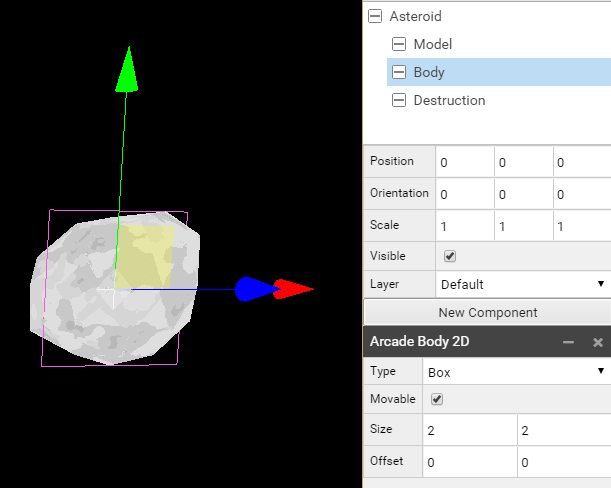
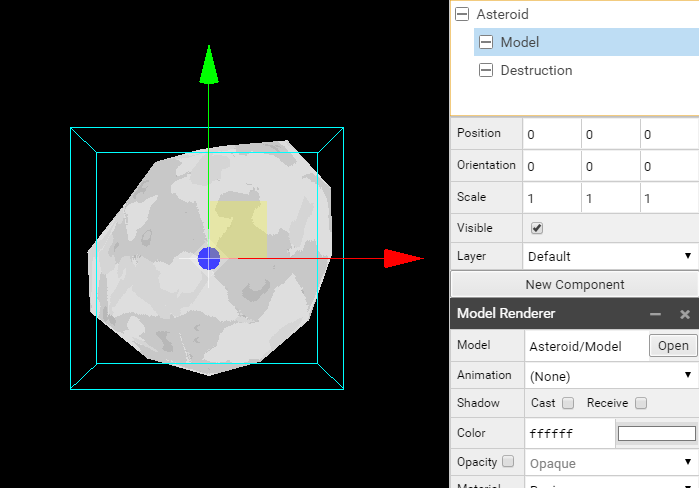
rm body and fix amplitude

diff --git a/en/ch4.md b/en/ch4.md
@@ -170,11 +170,6 @@ We do the same for Ship2 of Ship/1/Prefab, with a component Model Renderer and t
 
 We both change the Orientation to (90, 0, 0) to see the top of the ship in 2D mode.
 
-##### Body
-
-We need to give an Arcade Body 2D compenent to our ships for the collision system, we attach it to an actor Body, child of the Ship actor.
-We set the size to 4 x 4.
-
 ##### Destruction
 
 We create for both ship an actor Destruction, which contain the component Sprite renderer with the Sprite Explosion related to each ship.
@@ -191,7 +186,6 @@ Here the complete structure of the prefabs :
 Ship/0/Prefab
 * Ship1, Position(0, 0, 0), Orientation(0, 0, **90**), Behavior, Class ShipBehavior
    * Model, Orientation(0, **90**, **90**), Model Renderer, Model *Ship/0/Model*
-   * Body, Arcade Body 2D, Type Box, Size (**4, 4**)
    * Destruction, Sprite Renderer, Sprite *Ship/0/Explosion/Sprite*
    * Boost, Orientation (0, 0, **-90**), Visible off
       * 0, Position (2.1, -2.76, 0), Sprite Renderer, Sprite *Ship/Boost/Sprite*
@@ -202,7 +196,6 @@ Ship/0/Prefab
 Ship/1/Prefab
 * Ship2, Position(0, 0, 0), Orientation(0, 0, **-90**), Behavior, Class ShipBehavior
    * Model, Orientation(0, **90**, **90**), Model Renderer, Model *Ship/1/Model*
-   * Body, Arcade Body 2D, Type Box, Size (**4, 4**)
    * Destruction, Sprite Renderer, Sprite *Ship/1/Explosion/Sprite*
    * Boost, Orientation (0, 0, **-90**), Visible off
       * 0, Position (2.1, -2.76, 0), Sprite Renderer, Sprite *Ship/Boost/Sprite*
@@ -224,23 +217,15 @@ We create an actor Missile with a Behavior component to which we attach the Clas
 Child of Missile actor, we create an actor Sprite with a component Sprite Renderer and the Sprite Ship/0/Missile/Sprite for Ship1 and Ship/1/Missile/Sprite for Ship2.
 
 ![img/4/missilePrefab1.png](img/4/missilePrefab1.png)
-
-##### Body
-
-Child of Missile actor, we create an actor Body with a component Arcade Body 2D with a size of (0.5, 0.5).
-
 ![img/4/missilePrefab2.png](img/4/missilePrefab2.png)
 
 Ship/0/Missile/Prefab
 * Missile, Position(0, 0, 0)
    * Sprite, Sprite Renderer, Sprite *Ship/0/Missile/Sprite*
-   * Body, Arcade Body 2D, Type Box, Size (**0.5, 0.5**)
-
 
 Ship/1/Missile/Prefab
 * Missile, Position(0, 0, 0)
    * Sprite, Sprite Renderer, Sprite *Ship/1/Missile/Sprite*
-   * Body, Arcade Body 2D, Type Box, Size (**0.5, 0.5**)
 
 
 #### Alien Prefab
@@ -255,10 +240,6 @@ We create an actor Alien with a Behavior component to which we attach the Class 
 
 We create an actor Model, child of Alien actor, with a component Model Renderer and the Alien/Model as Model.
 
-##### Body
-
-We create an actor Body, child of Alien actor with a component Arcade Body 2D with a size of (3, 2).
-
 ##### Destruction
 
 We create an actor Destruction, child of Alien actor with a Sprite Renderer component with the Sprite Alien/Explosion/Sprite.
@@ -266,7 +247,6 @@ We create an actor Destruction, child of Alien actor with a Sprite Renderer comp
 Alien/Prefab
 * Alien, Position(0, 0, 0), Behavior, Class AlienBehavior
    * Model, Model Renderer, Model *Alien/Model*
-   * Body, Arcade Body 2D, Type Box, Size (**3, 2**)
    * Destruction, Scale (1.5, 1.5, 1.5), Sprite Renderer, Sprite *Alien/Explosion/Sprite*
    
 ![img/4/alienPrefab.png](img/4/alienPrefab.png)
@@ -280,7 +260,6 @@ See Ship Missile description.
 
 * Missile, Position(0, 0, 0)
    * Sprite, Sprite Renderer, Sprite *Alien/Missile/Sprite*
-   * Body, Arcade Body 2D, Type Box, Size (**0.6, 0.6**)
 
 ![img/4/missilePrefab3.png](img/4/missilePrefab3.png)
 
@@ -291,7 +270,6 @@ Like for the Ship and Alien we create actors with their related component and pa
 
 * Asteroid, Position(0, 0, 0), Behavior, Class AsteroidBehavior
    * Model, Model Renderer, Model *Asteroid/Model*
-   * Body, Arcade Body 2D, Type Box, Size (**2, 2**)
    * Destruction, Sprite Renderer, Sprite *Asteroid/Explosion/Sprite*
 
 ![img/4/asteroidPrefab.png](img/4/asteroidPrefab.png)

diff --git a/en/ch5.md b/en/ch5.md
@@ -31,6 +31,9 @@ namespace Game{
     height:number
   }
   
+  // set a border of 2 x 1.5 units (invisible border of 24 pixels)
+  let border: number = 3;
+  
   // Game points won when target shot
   export enum points {
     asteroidBig = 10,
@@ -86,8 +89,6 @@ We write the ship datas :
 namespace Ships{
   // Default ship size
   export const size: number = 0.5;
-  // Default ship body
-  export const body: number = 2;
   // Starting ship score
   export const startScore: number = 0;
   // Starting ship life
@@ -156,6 +157,8 @@ namespace Alien{
   
   // Different alien sizes
   export const sizes: number[] = [1.6, 1.3, 1];
+  // Different collision amplitude on x and y axis
+  export const amplitude: number[] = [2, 1.5, 1];
   
   // Linear and rotation speed of alien ship
   export let linearSpeed: number = 0.05;
@@ -347,9 +350,7 @@ namespace Game{
   export function start(){
     // get the Camera actor the the game Scene
     let screen = Sup.getActor("Camera").camera;
-    // set a border of 2 x 1.5 units (invisible border of 24 pixels)
-    let border: number = 3;
-    // We get the game screen bounds and add a border of 3 units
+    // We get the game screen bounds and add the invisible border
     bounds = {
       width: screen.getOrthographicScale() + border,
       height: screen.getOrthographicScale() + border
@@ -382,10 +383,12 @@ We then call the function at the begining of the awake method of our Game script
     // Create the three axis positions x, y, z
     let x: number = 0, y: number = 0, z: number = 0;
     
-    // Choose randomly a position on one of the vertical edges
+     // Choose randomly a position on one of the vertical edges
     x = Sup.Math.Random.sample([-bounds.width / 2, bounds.width / 2]);
+    // Get the height without the invisible border
+    let height = bounds.height - border
     // Choose randomly a position on y axis
-    y = Sup.Math.Random.integer(-bounds.height / 2, bounds.height / 2);
+    y = Sup.Math.Random.integer(-height / 2 , height / 2);
     // Get alien default Z position
     z = Alien.zPosition;
     

diff --git a/en/ch6.md b/en/ch6.md
@@ -17,6 +17,8 @@ We first initialize the local datas we need for the alien ship actor in the Alie
 class AlienBehavior extends Sup.Behavior {
   // Ship size of this Actor
   size: number;
+  // Ship amplitude of this Actor
+  amplitude: number;
   // Ship position
   position: Sup.Math.Vector2;
   // Ship linear movement
@@ -33,7 +35,7 @@ Sup.registerBehavior(AlienBehavior);
 ##### Alien awakening and closing
 
 We first give life to our Alien by giving a true to the flag alive when the behavior wake up. 
-We choose randomly a size and set it to the actor to which apply this behavior.
+We choose randomly an index to get a different size (with related amplitude) each new alien ship and set it to the Actor.
 And we set some value to start, the lifes, the shooting timer and the checkLifeHUD flag which give a signal for an other process in the game to update the HUD with the new alien life. (We will write this process later)
 
 We also want that alive turn false when the alien ship is destroyed, there is a default method onDestroy() we can use. We also give to the spawn time before a new alien ship appear the default Respawn time.
@@ -44,8 +46,12 @@ We also want that alive turn false when the alien ship is destroyed, there is a 
   awake() {
     // Set Alien.alive flag to true
     Alien.alive = true;
-    // Get a random size from Alien.sizes
-    this.size = Sup.Math.Random.sample(Alien.sizes);
+    // Get a random index for alien ship size and amplitude
+    let randomShip: number = Sup.Math.Random.integer(0, 2);
+    // Get the default size related to the random index
+    this.size = Alien.sizes[randomShip];
+    // Get the default amplitude related to the random index
+    this.amplitude = Alien.amplitude[randomShip];
     // Set the size to the actor
     this.actor.setLocalScale(this.size);
     // Set the value of Alien.startLife to the current Alien.lifes

diff --git a/en/ch7.md b/en/ch7.md
@@ -77,10 +77,9 @@ namespace Game{
     else {
       Ship.setLocalPosition(Ships.spawns[2]);
     }
+    // NEED TO CHANGE ??
     // Set the ship default size to half size
     Ship.setLocalScale(Ships.size, Ships.size, Ships.size);
-    // Set the ship default body to half size
-    Ship.getChild("Body").arcadeBody2D.setSize(Ships.body, Ships.body);
   }
 }
 [...]
@@ -483,7 +482,7 @@ When a missile born we add it to the global list of missiles that we will use to
   [...]
   onDestroy(){
     // Remove the current actor from the Global list from the shipIndex owner
-    Ships.missiles[this.shipIndex].splice(Ships.missiles[this.shipIndex].indexOf(this.actor));
+    Ships.missiles[this.shipIndex].splice(Ships.missiles[this.shipIndex].indexOf(this.actor), 1);
   }
   [...]
 ``` 
